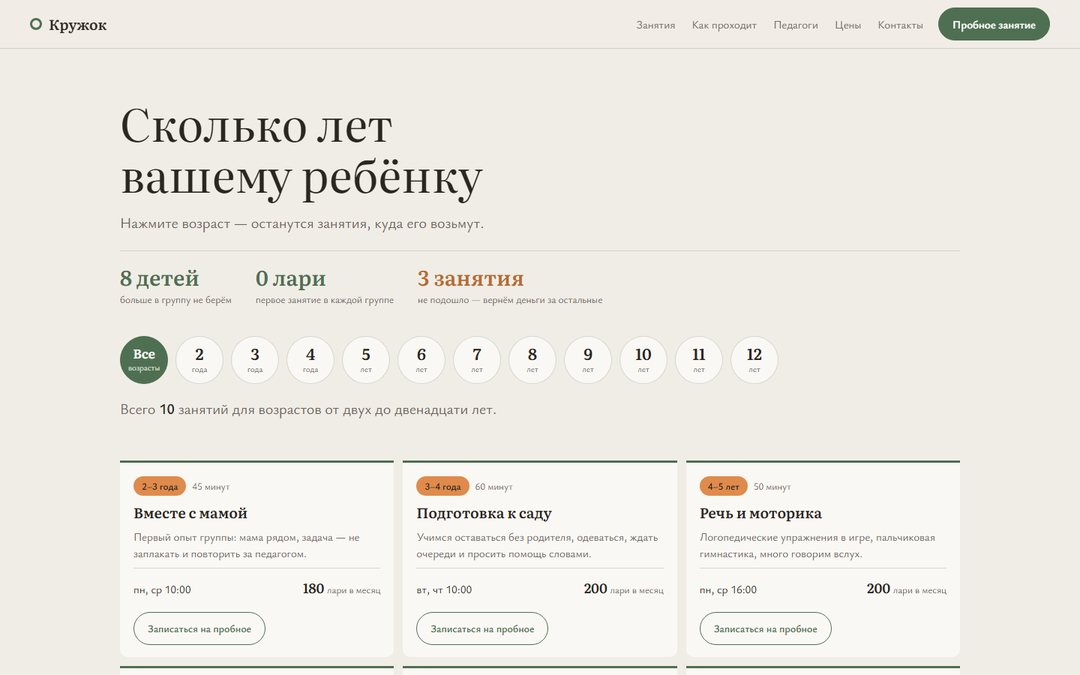
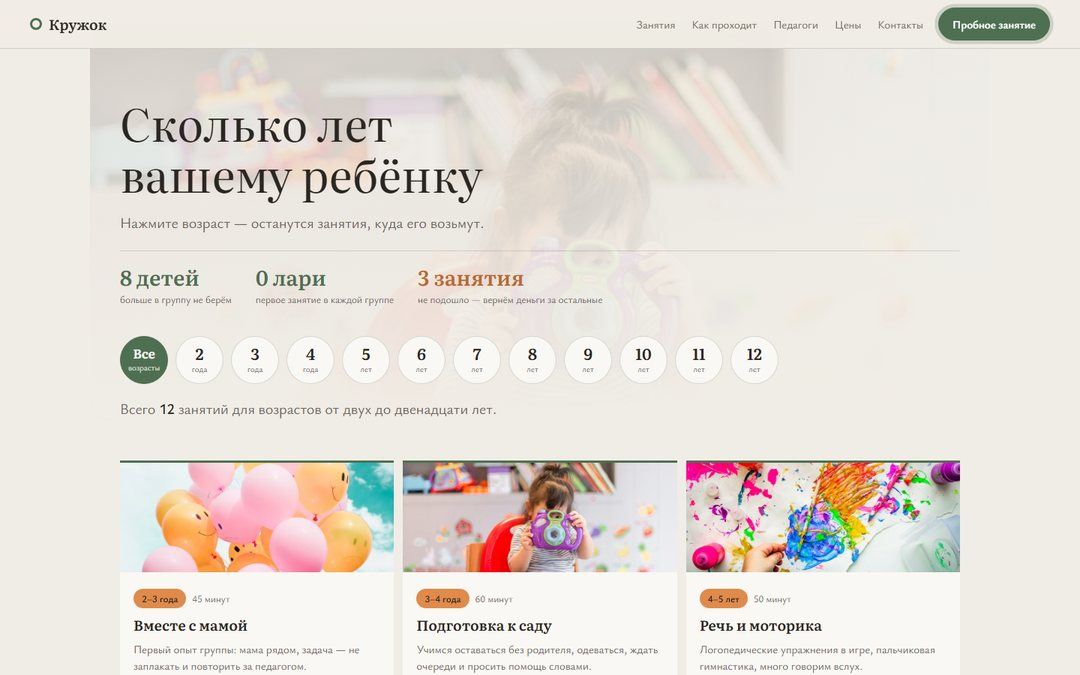
Новые превью: Кружок и Граф

Changed region(s): [[0.1222, 0.6844, 0.8861, 0.9956], [0.0611, 0.0622, 0.7333, 0.3422], [0.8556, 0.0, 0.9778, 0.0622]]

diff --git a/kruzhok/index.html b/kruzhok/index.html
@@ -80,6 +80,14 @@ button,input,select,textarea{font:inherit;color:inherit}
 .nav{display:none;gap:22px;margin-left:auto;font-size:15px;color:var(--soft)}
 .nav a{text-decoration:none}
 .nav a:hover{color:var(--ink)}
+/* Правка 21.09: кнопка мягко пульсирует, чтобы её замечали.
+   При «уменьшить движение» пульсация выключается. */
+@keyframes softPulse{0%,100%{box-shadow:0 0 0 0 rgba(79,111,82,.42)}
+  50%{box-shadow:0 0 0 10px rgba(79,111,82,0)}}
+@media (prefers-reduced-motion:no-preference){
+  .top .btn{animation:softPulse 2.6s ease-in-out infinite}
+  .top .btn:hover,.top .btn:focus-visible{animation-play-state:paused}
+}
 .top .btn{margin-left:auto;min-height:44px;padding:0 18px;font-size:15px}
 @media (min-width:1060px){.nav{display:flex}.top .btn{margin-left:0}}
 
@@ -91,7 +99,15 @@ h3{font-family:var(--disp);font-weight:600;font-size:19px;line-height:1.3}
 .note{color:var(--soft);font-size:15px;line-height:1.6;max-width:72ch}
 
 /* ============ 1. герой ============ */
-.hero{max-width:1200px;margin:0 auto;padding:clamp(32px,4.5vw,64px) var(--gut) 0}
+/* Правка 21.09: кадр детской комнаты на фоне первого экрана. Он оживляет
+   страницу, но уходит в овсяный фон, чтобы текст читался. Детских лиц
+   в кадре нет — это отдельное правило (SITE-FACTORY §6). */
+.hero{position:relative;isolation:isolate;max-width:1200px;margin:0 auto;
+  padding:clamp(32px,4.5vw,64px) var(--gut) 0}
+.hero__bg{position:absolute;inset:-40px 0 0;z-index:-1;overflow:hidden;border-radius:0 0 28px 28px}
+.hero__bg img{width:100%;height:100%;object-fit:cover;object-position:50% 30%;opacity:.5;filter:saturate(.85)}
+.hero__bg::after{content:"";position:absolute;inset:0;
+  background:linear-gradient(180deg,rgba(240,237,230,.5) 0%,rgba(240,237,230,.8) 55%,var(--oat) 100%)}
 h1{font-family:var(--disp);font-weight:400;font-size:clamp(30px,4.4vw,60px);line-height:1.12;max-width:16ch}
 .hero p{margin-top:18px;font-size:clamp(17px,1.4vw,20px);line-height:1.5;max-width:58ch;color:var(--soft)}
 /* Три цифры рядом: самое важное читается за секунду */
@@ -128,7 +144,13 @@ h1{font-family:var(--disp);font-weight:400;font-size:clamp(30px,4.4vw,60px);line
 .groups{display:grid;grid-template-columns:1fr;gap:12px;margin-top:22px}
 @media (min-width:720px){.groups{grid-template-columns:repeat(2,minmax(0,1fr))}}
 @media (min-width:1080px){.groups{grid-template-columns:repeat(3,minmax(0,1fr))}}
-.g{background:var(--paper);border-top:3px solid var(--moss);border-radius:0 0 10px 10px;
+/* Правка 21.09: у каждого занятия своя иллюстрация — как на «Графе».
+   Детских лиц в кадрах нет: это запрет регламента, а не придирка. */
+.g__ph{display:block;margin:-18px -18px 14px;overflow:hidden;background:var(--line)}
+.g__ph img{display:block;width:100%;height:clamp(118px,12vw,146px);object-fit:cover;
+  transition:transform .4s ease}
+.g:hover .g__ph img{transform:scale(1.05)}
+.g{overflow:hidden;background:var(--paper);border-top:3px solid var(--moss);border-radius:0 0 10px 10px;
   padding:18px 18px 16px;display:flex;flex-direction:column;gap:8px}
 .g__top{display:flex;flex-wrap:wrap;align-items:center;gap:8px}
 .g__age{display:inline-flex;align-items:center;height:26px;padding:0 11px;border-radius:999px;
@@ -162,6 +184,13 @@ h1{font-family:var(--disp);font-weight:400;font-size:clamp(30px,4.4vw,60px);line
 .teachers{display:grid;grid-template-columns:1fr;gap:14px;margin-top:22px}
 @media (min-width:620px){.teachers{grid-template-columns:repeat(2,minmax(0,1fr))}}
 @media (min-width:1080px){.teachers{grid-template-columns:repeat(5,minmax(0,1fr))}}
+/* Правка 21.09: кадр над именем педагога. Лица не ставим — чужой человек
+   в роли «нашего педагога» это обман (SITE-FACTORY §6). Вместо лица —
+   предмет занятия: книги, краски, шахматы, буквы. */
+.t__ph{display:block;width:100%;height:104px;border-radius:12px;overflow:hidden;
+  margin-bottom:12px;background:var(--line)}
+.t__ph img{width:100%;height:100%;object-fit:cover;transition:transform .4s ease}
+.t:hover .t__ph img{transform:scale(1.05)}
 .t{display:grid;gap:6px;background:var(--paper);border:1px solid var(--line);border-radius:14px;
   box-shadow:0 8px 22px -14px rgba(42,38,34,.32);padding:20px 18px;
   transition:transform .3s ease,box-shadow .3s ease}
@@ -172,23 +201,33 @@ h1{font-family:var(--disp);font-weight:400;font-size:clamp(30px,4.4vw,60px);line
 .t__s{color:var(--soft);font-size:15px;line-height:1.4}
 
 /* ============ место ============ */
-.place{display:grid;grid-template-columns:1fr;gap:24px;margin-top:22px}
+.place{display:grid;grid-template-columns:1fr;gap:24px;margin-top:22px;align-items:stretch}
+@media (min-width:900px){
+  /* Правка 21.09: слева таблица, справа коллаж — один симметричный блок. */
+  .place > div{display:flex;flex-direction:column}
+  .place ul{flex:1;grid-auto-rows:1fr}
+}
 @media (min-width:900px){.place{grid-template-columns:minmax(0,1fr) minmax(0,1fr);gap:40px;align-items:start}}
 /* Строки с круглыми маркерами — перекличка с кружками возрастов наверху.
    Карточек здесь нарочно нет: у «Суппорта» чертёж, у «Гонга» табло цифр. */
-.place ul{display:grid;gap:0}
-.place li{position:relative;padding:15px 0 15px 40px;font-size:16px;line-height:1.45;
+/* Правка 21.09: описание места — компактная таблица, а не строки во всю ширину. */
+.place ul{display:grid;gap:0;margin-top:22px;background:var(--paper);border:1px solid var(--line);
+  border-radius:16px;overflow:hidden;align-content:stretch}
+.place li{position:relative;display:flex;align-items:center;padding:14px 18px 14px 48px;
+  font-size:15.5px;line-height:1.4;
   border-bottom:1px dotted rgba(42,38,34,.22)}
-.place li:first-child{border-top:1px dotted rgba(42,38,34,.22)}
-.place li::before{content:"";position:absolute;left:4px;top:17px;width:18px;height:18px;border-radius:50%;
+.place li:last-child{border-bottom:0}
+.place li::before{content:"";position:absolute;left:16px;top:50%;margin-top:-9px;width:18px;height:18px;border-radius:50%;
   border:2px solid var(--apricot)}
-.place li::after{content:"";position:absolute;left:10px;top:23px;width:6px;height:6px;border-radius:50%;
+.place li::after{content:"";position:absolute;left:22px;top:50%;margin-top:-3px;width:6px;height:6px;border-radius:50%;
   background:var(--apricot)}
 /* Фото аркой: округлый верх — мягче, чем прямоугольник у соседних работ */
-.place img{border-radius:120px 120px 14px 14px}
-.place .ph2 img{border-radius:14px}
-.place img{width:100%;border-radius:120px 120px 14px 14px;background:var(--line);filter:brightness(1.05) saturate(.95)}
-.place .ph2 img{margin-top:12px;border-radius:14px;height:clamp(140px,16vw,200px);object-fit:cover}
+/* Правка 21.09: вместо двух крупных кадров — коллаж из шести. */
+.collage{display:grid;grid-template-columns:repeat(2,minmax(0,1fr));gap:10px;align-content:stretch}
+@media (min-width:560px){.collage{grid-template-columns:repeat(3,minmax(0,1fr))}}
+.collage img{width:100%;height:100%;min-height:clamp(96px,11vw,132px);object-fit:cover;border-radius:12px;
+  background:var(--line);filter:brightness(1.05) saturate(.95);transition:transform .4s ease}
+.collage img:hover{transform:scale(1.03)}
 figcaption{margin-top:10px;color:var(--soft);font-size:13px;line-height:1.5}
 
 /* ============ цены ============ */
@@ -256,6 +295,10 @@ figcaption{margin-top:10px;color:var(--soft);font-size:13px;line-height:1.5}
 <main id="top">
   <!-- ============ 1. герой и фильтр ============ -->
   <section class="hero" aria-labelledby="h1">
+    <div class="hero__bg" aria-hidden="true">
+      <img src="https://images.unsplash.com/photo-1516627145497-ae6968895b74?auto=format&fit=crop&w=2000&q=72"
+        alt="" width="2000" height="1333" fetchpriority="high" decoding="async">
+    </div>
     <h1 id="h1">Сколько лет вашему ребёнку</h1>
     <p>Нажмите возраст — останутся занятия, куда его возьмут.</p>
 
@@ -275,64 +318,88 @@ figcaption{margin-top:10px;color:var(--soft);font-size:13px;line-height:1.5}
       <h2 class="sr" id="h-z">Занятия</h2>
       <ul class="groups" id="groups">
         <li class="g" data-min="2" data-max="3" data-n="Вместе с мамой">
+          <span class="g__ph"><img src="https://images.unsplash.com/photo-1509909756405-be0199881695?auto=format&fit=crop&w=800&q=74" alt="Воздушные шары" width="800" height="534" loading="lazy" decoding="async"></span>
           <div class="g__top"><span class="g__age">2–3 года</span><span class="g__len">45 минут</span></div>
           <h3>Вместе с мамой</h3>
           <p class="g__d">Первый опыт группы: мама рядом, задача — не заплакать и повторить за педагогом.</p>
           <div class="g__b"><span class="g__w">пн, ср 10:00</span><span class="g__p">180 <i>лари в месяц</i></span></div>
         </li>
         <li class="g" data-min="3" data-max="4" data-n="Подготовка к саду">
+          <span class="g__ph"><img src="https://images.unsplash.com/photo-1516627145497-ae6968895b74?auto=format&fit=crop&w=800&q=74" alt="Игровая комната с игрушками" width="800" height="534" loading="lazy" decoding="async"></span>
           <div class="g__top"><span class="g__age">3–4 года</span><span class="g__len">60 минут</span></div>
           <h3>Подготовка к саду</h3>
           <p class="g__d">Учимся оставаться без родителя, одеваться, ждать очереди и просить помощь словами.</p>
           <div class="g__b"><span class="g__w">вт, чт 10:00</span><span class="g__p">200 <i>лари в месяц</i></span></div>
         </li>
         <li class="g" data-min="4" data-max="5" data-n="Речь и моторика">
+          <span class="g__ph"><img src="https://images.unsplash.com/photo-1560421683-6856ea585c78?auto=format&fit=crop&w=800&q=74" alt="Детские руки рисуют красками" width="800" height="534" loading="lazy" decoding="async"></span>
           <div class="g__top"><span class="g__age">4–5 лет</span><span class="g__len">50 минут</span></div>
           <h3>Речь и моторика</h3>
           <p class="g__d">Логопедические упражнения в игре, пальчиковая гимнастика, много говорим вслух.</p>
           <div class="g__b"><span class="g__w">пн, ср 16:00</span><span class="g__p">200 <i>лари в месяц</i></span></div>
         </li>
         <li class="g" data-min="3" data-max="6" data-n="Музыка и ритм">
+          <span class="g__ph"><img src="https://images.unsplash.com/photo-1555448248-2571daf6344b?auto=format&fit=crop&w=800&q=74" alt="Разводы краски" width="800" height="534" loading="lazy" decoding="async"></span>
           <div class="g__top"><span class="g__age">3–6 лет</span><span class="g__len">45 минут</span></div>
           <h3>Музыка и ритм</h3>
           <p class="g__d">Ритм телом и шумовыми инструментами. Слух развивается раньше, чем кажется.</p>
           <div class="g__b"><span class="g__w">сб 10:00</span><span class="g__p">200 <i>лари в месяц</i></span></div>
         </li>
         <li class="g" data-min="5" data-max="6" data-n="Подготовка к школе">
+          <span class="g__ph"><img src="https://images.unsplash.com/photo-1503676260728-1c00da094a0b?auto=format&fit=crop&w=800&q=74" alt="Книги, карандаши и кубики с буквами" width="800" height="534" loading="lazy" decoding="async"></span>
           <div class="g__top"><span class="g__age">5–6 лет</span><span class="g__len">60 минут</span></div>
           <h3>Подготовка к школе</h3>
           <p class="g__d">Буквы и счёт до двадцати, но главное — усидеть сорок минут и поднять руку, а не выкрикнуть.</p>
           <div class="g__b"><span class="g__w">вт, чт, сб 17:00</span><span class="g__p">260 <i>лари в месяц</i></span></div>
         </li>
         <li class="g" data-min="6" data-max="8" data-n="Чтение и счёт">
+          <span class="g__ph"><img src="https://images.unsplash.com/photo-1513475382585-d06e58bcb0e0?auto=format&fit=crop&w=800&q=74" alt="Полка с книгами" width="800" height="534" loading="lazy" decoding="async"></span>
           <div class="g__top"><span class="g__age">6–8 лет</span><span class="g__len">60 минут</span></div>
           <h3>Чтение и счёт</h3>
           <p class="g__d">Читаем вслух по очереди, считаем в столбик, разбираем ошибки без слова «неправильно».</p>
           <div class="g__b"><span class="g__w">пн, ср 17:30</span><span class="g__p">240 <i>лари в месяц</i></span></div>
         </li>
         <li class="g" data-min="5" data-max="9" data-n="Рисование">
+          <span class="g__ph"><img src="https://images.unsplash.com/photo-1499892477393-f675706cbe6e?auto=format&fit=crop&w=800&q=74" alt="Краски и кисти" width="800" height="534" loading="lazy" decoding="async"></span>
           <div class="g__top"><span class="g__age">5–9 лет</span><span class="g__len">60 минут</span></div>
           <h3>Рисование</h3>
           <p class="g__d">Гуашь, уголь, пастель. Работы не переделываем за ребёнка — даже если очень хочется.</p>
           <div class="g__b"><span class="g__w">пт 16:00</span><span class="g__p">220 <i>лари в месяц</i></span></div>
         </li>
         <li class="g" data-min="7" data-max="10" data-n="Английский, начальный">
+          <span class="g__ph"><img src="https://images.unsplash.com/photo-1596464716127-f2a82984de30?auto=format&fit=crop&w=800&q=74" alt="Камни, краски и фломастеры на столе" width="800" height="534" loading="lazy" decoding="async"></span>
           <div class="g__top"><span class="g__age">7–10 лет</span><span class="g__len">60 минут</span></div>
           <h3>Английский, начальный</h3>
           <p class="g__d">Говорим с первого занятия, грамматику подключаем через месяц.</p>
           <div class="g__b"><span class="g__w">вт, чт 18:00</span><span class="g__p">260 <i>лари в месяц</i></span></div>
         </li>
         <li class="g" data-min="8" data-max="12" data-n="Робототехника">
+          <span class="g__ph"><img src="https://images.unsplash.com/photo-1587654780291-39c9404d746b?auto=format&fit=crop&w=800&q=74" alt="Россыпь деталей конструктора" width="800" height="534" loading="lazy" decoding="async"></span>
           <div class="g__top"><span class="g__age">8–12 лет</span><span class="g__len">90 минут</span></div>
           <h3>Робототехника</h3>
           <p class="g__d">Конструктор и простой код. Один набор на двоих: договариваться — половина навыка.</p>
           <div class="g__b"><span class="g__w">сб 11:00</span><span class="g__p">280 <i>лари в месяц</i></span></div>
         </li>
         <li class="g" data-min="9" data-max="12" data-n="Шахматы">
+          <span class="g__ph"><img src="https://images.unsplash.com/photo-1529699211952-734e80c4d42b?auto=format&fit=crop&w=800&q=74" alt="Шахматная доска с фигурами" width="800" height="534" loading="lazy" decoding="async"></span>
           <div class="g__top"><span class="g__age">9–12 лет</span><span class="g__len">60 минут</span></div>
           <h3>Шахматы</h3>
           <p class="g__d">Партии с разбором. Проигрывать учимся отдельно — это тоже занятие.</p>
           <div class="g__b"><span class="g__w">вт, пт 18:30</span><span class="g__p">200 <i>лари в месяц</i></span></div>
+        </li>
+        <li class="g" data-min="5" data-max="7" data-n="Лепка и аппликация">
+          <span class="g__ph"><img src="https://images.unsplash.com/photo-1518831959646-742c3a14ebf7?auto=format&fit=crop&w=800&q=74" alt="Ребёнок у цветочной стены" width="800" height="534" loading="lazy" decoding="async"></span>
+          <div class="g__top"><span class="g__age">5–7 лет</span><span class="g__len">50 минут</span></div>
+          <h3>Лепка и аппликация</h3>
+          <p class="g__d">Пластилин, глина, ножницы и клей. Руки устали — значит, занятие прошло.</p>
+          <div class="g__b"><span class="g__w">ср, сб 11:00</span><span class="g__p">190 <i>лари в месяц</i></span></div>
+        </li>
+        <li class="g" data-min="7" data-max="12" data-n="Логика и настольные игры">
+          <span class="g__ph"><img src="https://images.unsplash.com/photo-1553481187-be93c21490a9?auto=format&fit=crop&w=800&q=74" alt="Игральный кубик" width="800" height="534" loading="lazy" decoding="async"></span>
+          <div class="g__top"><span class="g__age">7–12 лет</span><span class="g__len">60 минут</span></div>
+          <h3>Логика и настольные игры</h3>
+          <p class="g__d">Считаем ходы, договариваемся о правилах, учимся ждать свой ход.</p>
+          <div class="g__b"><span class="g__w">чт 17:00, сб 12:30</span><span class="g__p">180 <i>лари в месяц</i></span></div>
         </li>
       </ul>
     </div>
@@ -359,11 +426,11 @@ figcaption{margin-top:10px;color:var(--soft);font-size:13px;line-height:1.5}
     <div class="sec__in">
       <h2 id="h-p">Педагоги</h2>
       <ul class="teachers">
-        <li class="t"><span class="t__n">Ирина</span><span class="t__s">подготовка к школе, чтение и счёт</span><span class="t__d">пн, вт, ср, чт, сб</span></li>
-        <li class="t"><span class="t__n">Ольга</span><span class="t__s">речь и моторика, вместе с мамой</span><span class="t__d">пн, ср, чт</span></li>
-        <li class="t"><span class="t__n">Мария</span><span class="t__s">рисование, музыка и ритм</span><span class="t__d">пт, сб</span></li>
-        <li class="t"><span class="t__n">Антон</span><span class="t__s">робототехника, шахматы</span><span class="t__d">вт, пт, сб</span></li>
-        <li class="t"><span class="t__n">Кетеван</span><span class="t__s">английский</span><span class="t__d">вт, чт</span></li>
+        <li class="t"><span class="t__ph"><img src="https://images.unsplash.com/photo-1513475382585-d06e58bcb0e0?auto=format&fit=crop&w=800&q=74" alt="Полка с книгами" width="800" height="534" loading="lazy" decoding="async"></span><span class="t__n">Ирина</span><span class="t__s">подготовка к школе, чтение и счёт</span><span class="t__d">пн, вт, ср, чт, сб</span></li>
+        <li class="t"><span class="t__ph"><img src="https://images.unsplash.com/photo-1509909756405-be0199881695?auto=format&fit=crop&w=800&q=74" alt="Воздушные шары" width="800" height="534" loading="lazy" decoding="async"></span><span class="t__n">Ольга</span><span class="t__s">речь и моторика, вместе с мамой</span><span class="t__d">пн, ср, чт</span></li>
+        <li class="t"><span class="t__ph"><img src="https://images.unsplash.com/photo-1499892477393-f675706cbe6e?auto=format&fit=crop&w=800&q=74" alt="Краски и кисти" width="800" height="534" loading="lazy" decoding="async"></span><span class="t__n">Мария</span><span class="t__s">рисование, музыка и ритм</span><span class="t__d">пт, сб</span></li>
+        <li class="t"><span class="t__ph"><img src="https://images.unsplash.com/photo-1529699211952-734e80c4d42b?auto=format&fit=crop&w=800&q=74" alt="Шахматная доска" width="800" height="534" loading="lazy" decoding="async"></span><span class="t__n">Антон</span><span class="t__s">робототехника, шахматы</span><span class="t__d">вт, пт, сб</span></li>
+        <li class="t"><span class="t__ph"><img src="https://images.unsplash.com/photo-1503676260728-1c00da094a0b?auto=format&fit=crop&w=800&q=74" alt="Кубики с буквами" width="800" height="534" loading="lazy" decoding="async"></span><span class="t__n">Кетеван</span><span class="t__s">английский</span><span class="t__d">вт, чт</span></li>
       </ul>
     </div>
   </section>
@@ -382,9 +449,13 @@ figcaption{margin-top:10px;color:var(--soft);font-size:13px;line-height:1.5}
             <li>Аптечка и педагог с действующей справкой о первой помощи.</li>
           </ul>
         </div>
-        <figure>
-          <img src="https://images.unsplash.com/photo-1722622102266-de29b50f4d3d?auto=format&fit=crop&w=1100&q=76" alt="Детский стул у стены с деревянными крючками" width="1100" height="733" loading="lazy" decoding="async">
-          <div class="ph2"><img src="https://images.unsplash.com/photo-1709709309456-ce2c6daff9af?auto=format&fit=crop&w=1100&q=76" alt="Детские стулья в тёплом свете" width="1100" height="733" loading="lazy" decoding="async"></div>
+        <figure class="collage">
+          <img src="https://images.unsplash.com/photo-1722622102266-de29b50f4d3d?auto=format&fit=crop&w=900&q=74" alt="Стена с деревянными крючками" width="900" height="600" loading="lazy" decoding="async">
+          <img src="https://images.unsplash.com/photo-1709709309456-ce2c6daff9af?auto=format&fit=crop&w=900&q=74" alt="Детские стулья в тёплом свете" width="900" height="600" loading="lazy" decoding="async">
+          <img src="https://images.unsplash.com/photo-1516627145497-ae6968895b74?auto=format&fit=crop&w=900&q=74" alt="Игровая комната с игрушками" width="900" height="600" loading="lazy" decoding="async">
+          <img src="https://images.unsplash.com/photo-1503676260728-1c00da094a0b?auto=format&fit=crop&w=900&q=74" alt="Книги и кубики с буквами" width="900" height="600" loading="lazy" decoding="async">
+          <img src="https://images.unsplash.com/photo-1499892477393-f675706cbe6e?auto=format&fit=crop&w=900&q=74" alt="Краски и кисти" width="900" height="600" loading="lazy" decoding="async">
+          <img src="https://images.unsplash.com/photo-1587654780291-39c9404d746b?auto=format&fit=crop&w=900&q=74" alt="Детали конструктора" width="900" height="600" loading="lazy" decoding="async">
         </figure>
       </div>
     </div>
@@ -401,7 +472,6 @@ figcaption{margin-top:10px;color:var(--soft);font-size:13px;line-height:1.5}
         <li><span>Второй ребёнок из семьи</span><span>минус 15 процентов</span></li>
         <li><span>Пропуски по болезни</span><span>переносим, до двух в месяц, без справки</span></li>
       </ul>
-      <p class="note" style="margin-top:20px">Не подошла группа за три занятия — вернём деньги за оставшиеся.</p>
     </div>
   </section>
 
